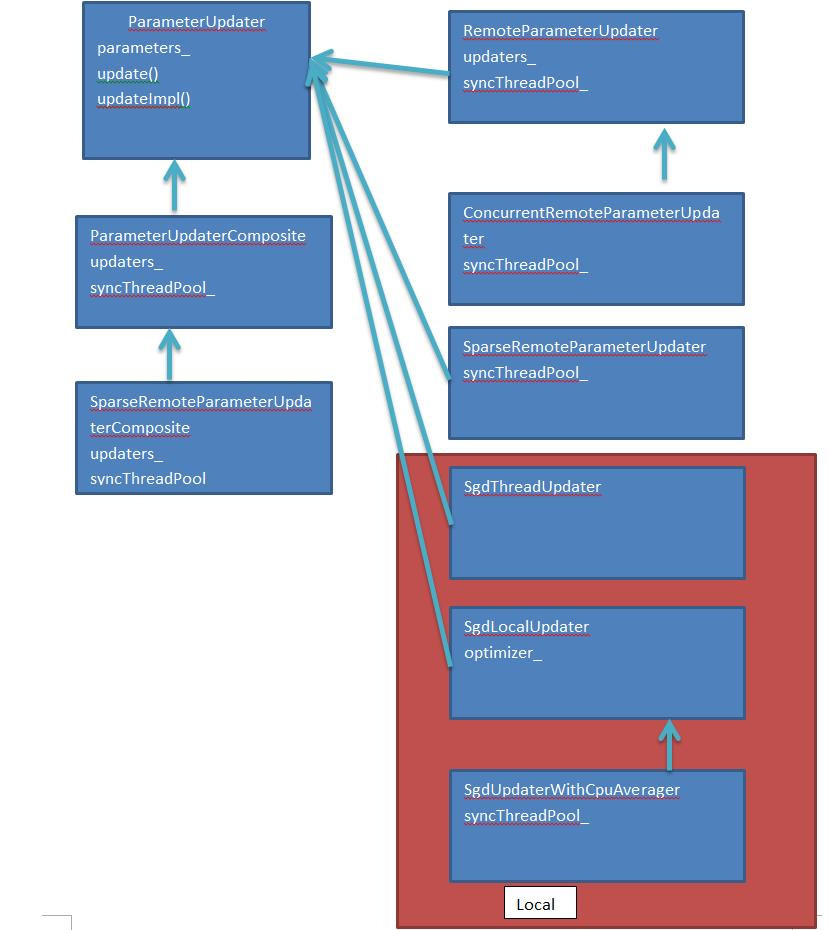
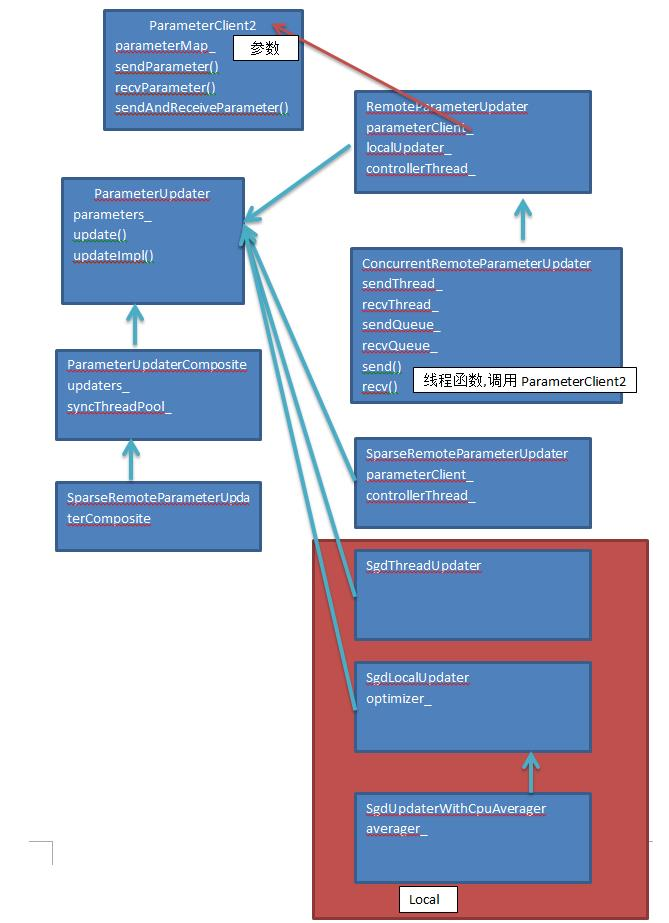
update paddle doc

diff --git a/Paddle 源码阅读.md b/Paddle 源码阅读.md
@@ -75,7 +75,17 @@ PServer进程：入口paddle/pserver/ParameterServer2Main.cpp
 
 例子中ports_num + ports_num_for_sparse=4
 
-ParameterServer2类继承ProtoServer类继承SocketServer。并在paddle/pserver/LightNetwork.cpp:191 SocketServer::tcpServer会启动tcpserver，接收客户端连接，每个连接创建SocketWorker线程类。SocketWorker类中接收数据，处理参数pull和push请求。
+![](images/pserver.jpg)
+
+ParameterServer2类继承ProtoServer类继承SocketServer。并在paddle/pserver/LightNetwork.cpp:191 SocketServer::tcpServer会启动tcpserver，接收客户端连接，每个连接创建SocketWorker线程类。SocketWorker类中的channe负责网络收发，并调用handleRequest()处理请求，handleRequest中根据请求的funcName调用相应的函数。主要函数入口有ParameterServer2类的sendParameter()和doOperation()。sendParameter()的作用是处理非同步的请求，如SET_PARAM，GET_PARAM，ASYNC_SGD，ADD_GRADIENT，AVERAGE_PARAMETER。doOperation()的主要作用是处理sync-sgd。
+
+sync-sgd时，客户端通过controller线程发送op_SGD 命令到PServer，然后立即发送sendParameter请求，PServer端通过doOperation()和sendParameter()调用完成sync-sgd的梯度合并和优化。
+
+          | 区别
+--------- | -------------
+sync-sgd  | Client通过controller和所有pservers建立连接，传输数据需要barrier同步，发送和merge梯度都是以block为单位，节省网络开销
+async-sgd | Client不同pservers的连接不需要barrier同步，梯度立即发送
+
 
 SocketWorker类有2个成员变量，channel负责网络收发，server负责处理请求。
 
@@ -140,5 +150,16 @@ SgdThreadUpdater，SgdLocalUpdater，SgdUpdaterWithCpuAverager是local的Paramet
 在Trainer::init paddle/trainer/Trainer.cpp:240中，初始化ParameterUpdater，
 trainerInternal_.getParameterUpdater()->init(parameters);
 
+Local的ParameterUpdater类在forward()前调用startBatch()，在backward后调用finishBatch()，在forward()和backward()中会多次调用update()更新weight。ParameterUpdater类的startBatch()， finishBatch()，update()主要调用ParameterOptimizer的同名函数。
+
+Remote的ParameterUpdater类主要区别在于finishBatch()中会跟PServer更新参数。
+
+SparseRemoteParameterUpdater所有参数都在PServer端，所以不需要localUpdater_，它的updateImpl实现是空的。在forward()前要从PServer拉weight,每次只拉需要的部分，所以参数可以非常大。在finishBatch()中，调用sendAndReceiveParameter发送delta到PServer，并拉取最新的参数。controller()线程函数中通过PSERVER_OP_START_PASS，PSERVER_OP_SGD，PSERVER_OP_FINISH_PASS操作命令在服务器端更新参数。
+
+ConcurrentRemoteParameterUpdater在RemoteParameterUpdater基础上加了一个优化：
+
+	pipeline device-to-host copy and host-to-network to hide network latency in backward stage.
+
+并且在不同的线程里面发送和接收。参数可以在本地也可以在PServer端，如果在本地通过localUpdater_更新，如果在PServer端通过controllerThread_更新(猜的，不知道对不对？)
 
 ![](images/parameterUpdater.jpg)
